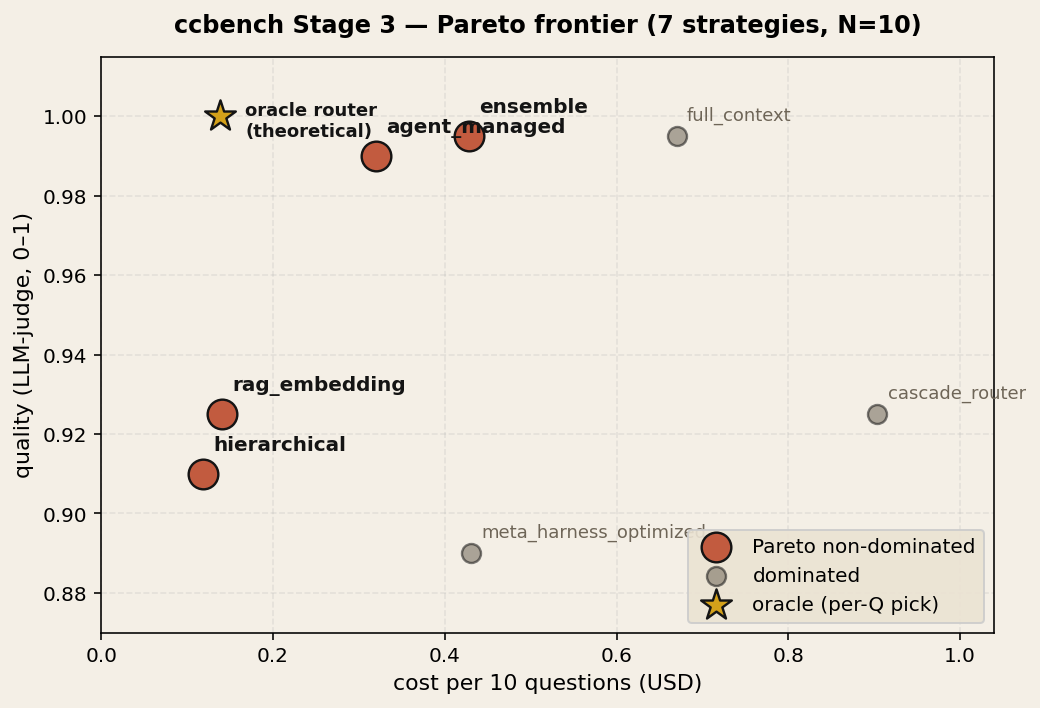
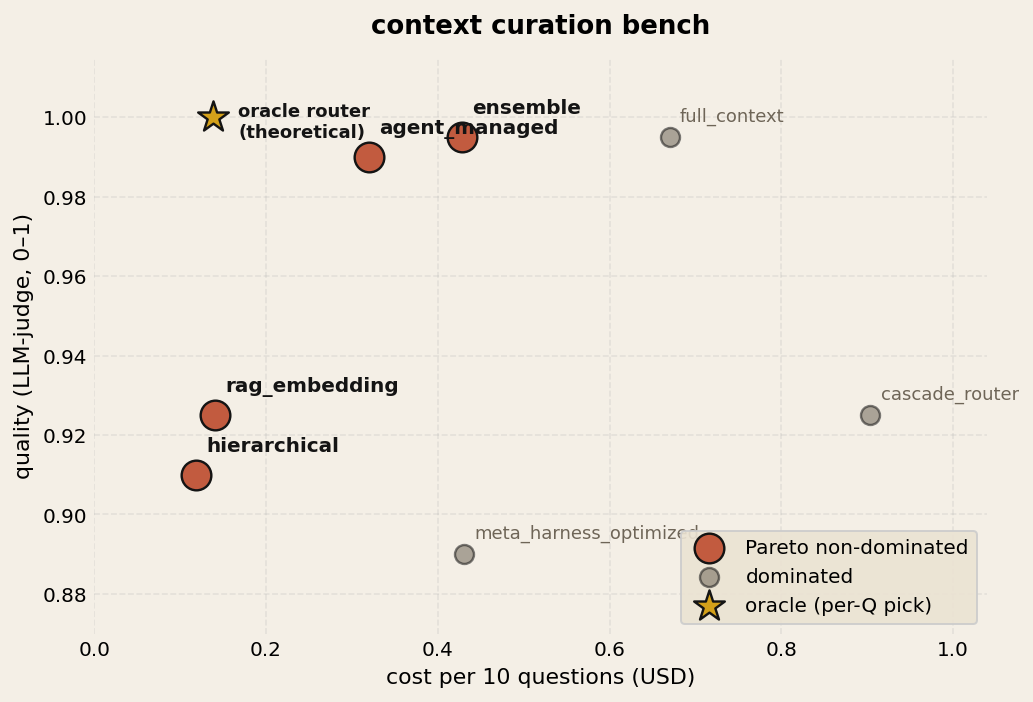
chart: drop border + retitle to "context curation bench"
Hide axes spines and tick marks; title becomes the repo's product
name rather than the Stage-3 specifics (which are already in the
README context).

diff --git a/scripts/render_frontier.py b/scripts/render_frontier.py
@@ -51,6 +51,9 @@ def render(summary_path: str, out_path: str,
     fig, ax = plt.subplots(figsize=(8, 5.2), dpi=144)
     fig.patch.set_facecolor("#F4EFE6")
     ax.set_facecolor("#F4EFE6")
+    for spine in ax.spines.values():
+        spine.set_visible(False)
+    ax.tick_params(length=0)
 
     for name, qi, ci, dom in zip(names, q, c, dominated):
         color = "#6E6557" if dom else "#C25B3F"
@@ -79,8 +82,8 @@ def render(summary_path: str, out_path: str,
 
     ax.set_xlabel("cost per 10 questions (USD)", fontsize=11)
     ax.set_ylabel("quality (LLM-judge, 0–1)", fontsize=11)
-    ax.set_title("ccbench Stage 3 — Pareto frontier (7 strategies, N=10)",
-                 fontsize=12, fontweight="bold", pad=12)
+    ax.set_title("context curation bench",
+                 fontsize=13, fontweight="bold", pad=12)
     ax.grid(True, alpha=0.25, linestyle="--", zorder=1)
     ax.set_xlim(0, max(c) * 1.15)
     ax.set_ylim(min(q) - 0.02, 1.015)
